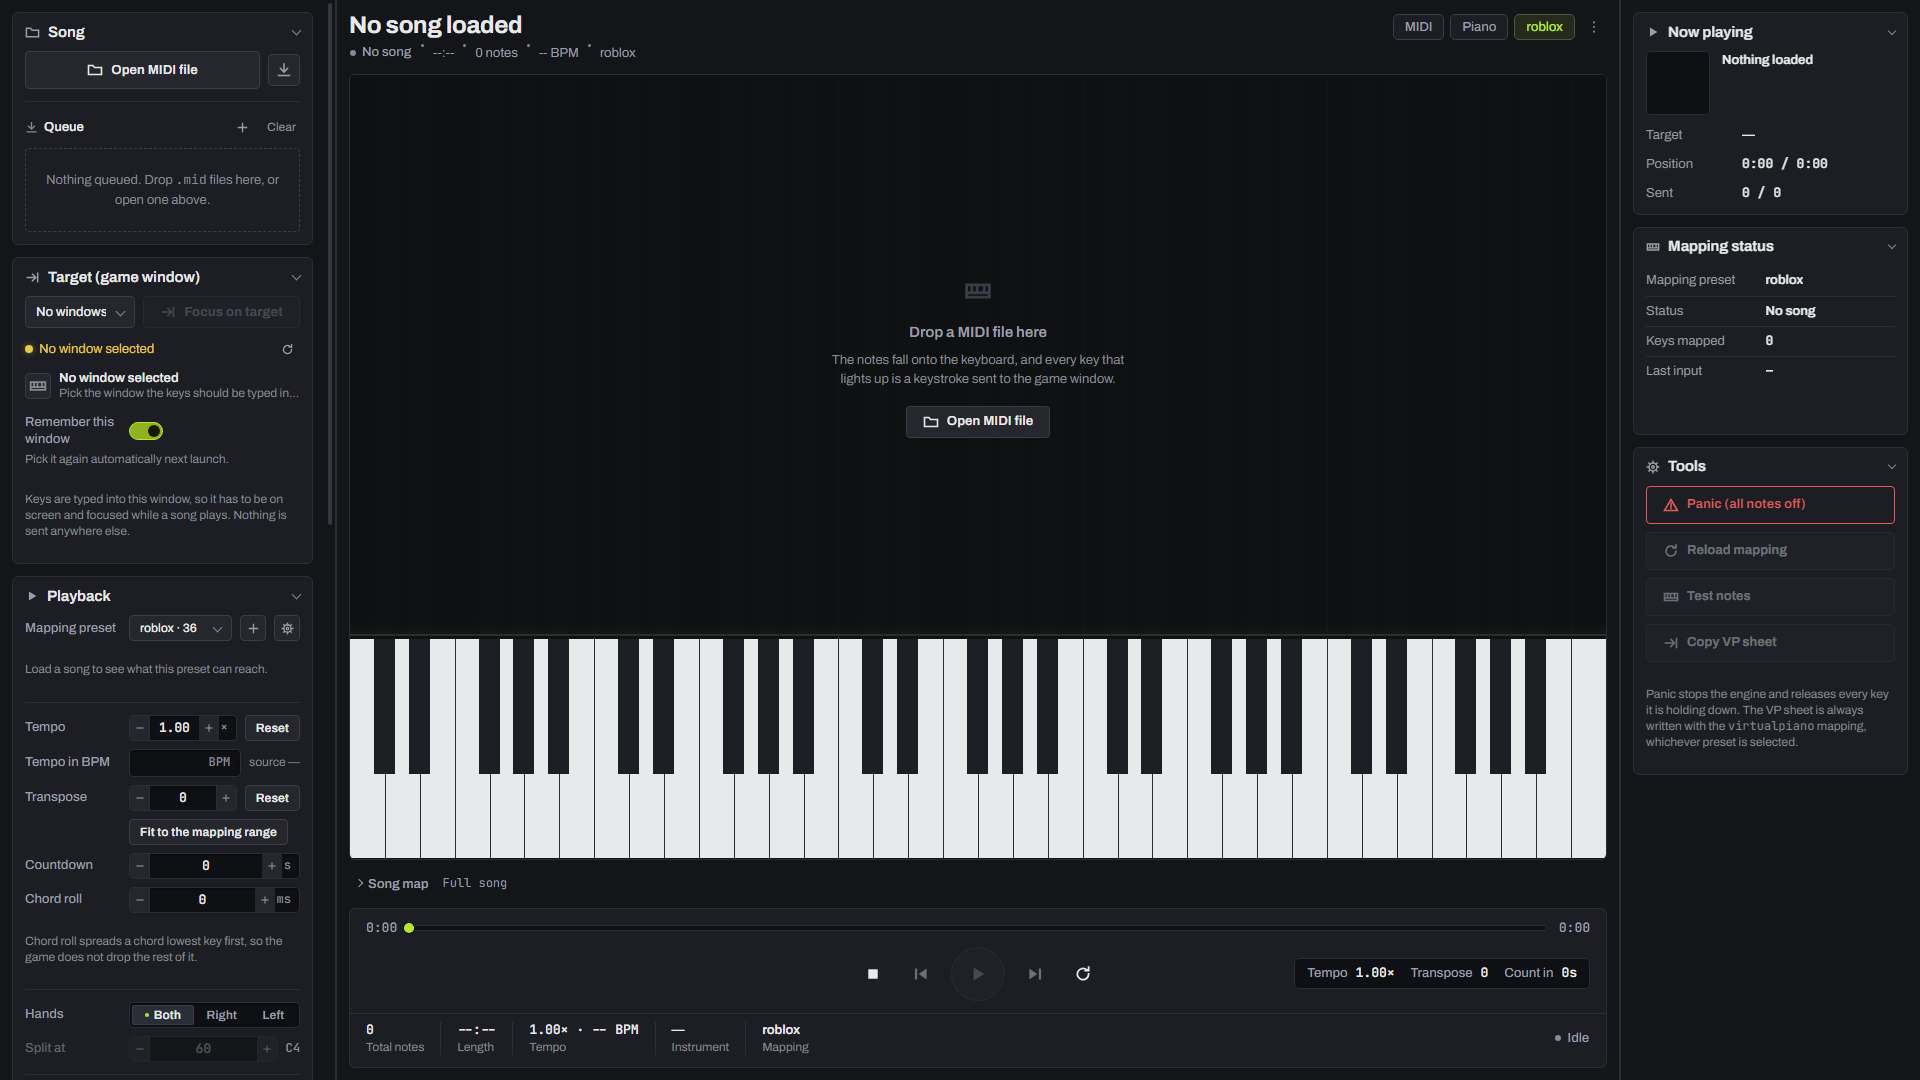
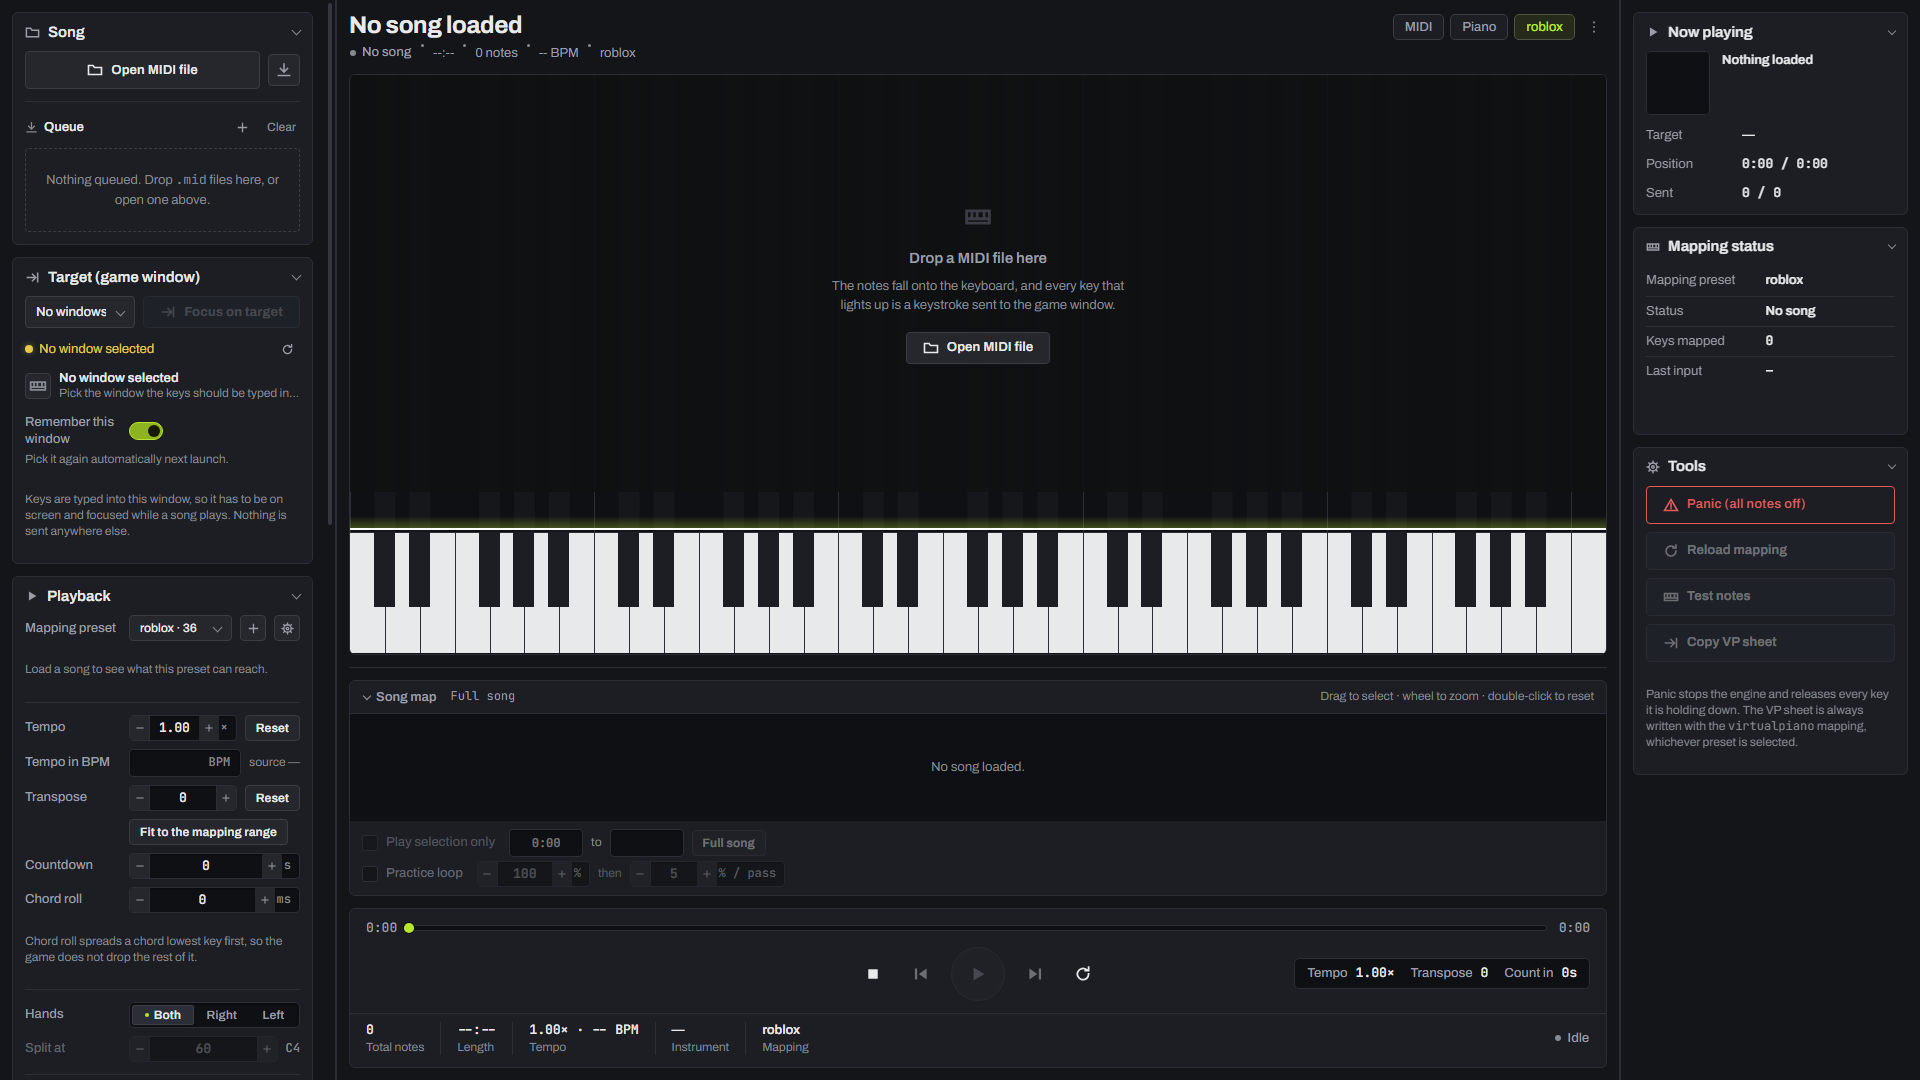
player: give the roll back the room the keybed was taking
The keybed took 28% of the visualizer where the reference gives it about a
fifth, so the keyboard read as the heavy half of the picture and stole
travel from the falling notes, which are the thing actually being watched.
Clamped at both ends so the keys stay playable-looking on a short window
and do not swell on a tall one.

Also converts the last two uppercase labels outside the Perch overlay, in
the Logs column heads.

Claude-Session: https://claude.ai/code/session_01Nkkf4LA56SxvSB7wxHeuuV

Changed region(s): [[0.1562, 0.4583, 0.8438, 0.825], [0.4375, 0.1833, 0.5938, 0.4278]]

diff --git a/renderer/player/visualizer.js b/renderer/player/visualizer.js
@@ -317,7 +317,14 @@
   Visualizer.prototype.render = function (ctx, W, H) {
     if (W < 20 || H < 20) return;
     var pal = this._pal;
-    var rollH = this.showKeys ? Math.floor(H * 0.72) : H;
+    // The keybed takes the bottom fifth, which is the proportion in the design
+    // reference. At 0.72 the keyboard read as the heavy half of the picture and
+    // stole travel from the falling notes, which are the thing being watched.
+    // Clamped so the keys stay playable-looking on a short window and do not
+    // swell on a tall one.
+    var rollH = this.showKeys
+      ? H - Math.round(Math.min(132, Math.max(56, H * 0.21)))
+      : H;
     var kbH = H - rollH;
     var nWhite = Math.max(1, this.whiteNotes.length);
     var wkeyW = W / nWhite;
